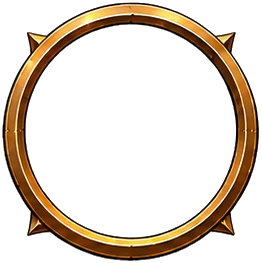
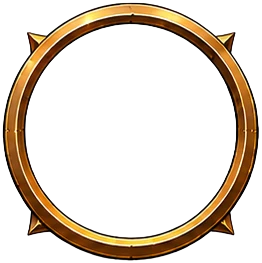
v3.711.0
Coque du téléphone : pièces détourées par Adobe, icônes du bas sans fond.

Claude-Session: https://claude.ai/code/session_01Re3aqe2KRUz6wn4UQVk1H2

diff --git a/game/css/02-layout.css b/game/css/02-layout.css
@@ -676,13 +676,14 @@ html:not(.wide-mode) #panel-container .kfp-scrollzone::after { content: ""; disp
 }
 
 /* v3.710.0 (atelier kit-coque-3, Seb 05/11) : barre du bas du téléphone avec le panneau et les icônes
-   du kit de Seb (images/UI/coque/), libellé sous l'icône, halo qui monte du bord sous l'onglet actif. */
+   du kit de Seb (images/UI/coque/), libellé sous l'icône, halo qui monte du bord sous l'onglet actif.
+   v3.711.0 : icônes détourées (fond transparent), plus de masque radial. */
 html:not(.wide-mode) #tab-bar { width: min(404px, 94%); aspect-ratio: 1014 / 229; background-image: url('../images/UI/coque/barre.webp'); }
 html:not(.wide-mode) #tab-bar-row { top: 17%; bottom: 14%; left: 4.5%; right: 4.5%; gap: 0; }
 html:not(.wide-mode) #tab-bar .tab-btn:not(.tab-wide) + .tab-btn:not(.tab-wide)::before { content: ""; position: absolute; left: 0; top: 12%; bottom: 12%; width: 1px; background: linear-gradient(transparent, rgba(226, 177, 74, 0.55), transparent); }
 html:not(.wide-mode) .tab-icon-frame { background: none; flex-direction: column; overflow: visible; }
 html:not(.wide-mode) .tab-btn.active .tab-icon-frame { background-image: none; }
-html:not(.wide-mode) #tab-bar .tab-icon-img { position: relative; z-index: 1; width: 34px; height: 28px; margin: 0 0 4px; object-fit: cover; filter: none; transform: none; -webkit-mask-image: radial-gradient(ellipse 60% 62% at 50% 50%, var(--c-black-950) 62%, transparent 100%); mask-image: radial-gradient(ellipse 60% 62% at 50% 50%, var(--c-black-950) 62%, transparent 100%); }
+html:not(.wide-mode) #tab-bar .tab-icon-img { position: relative; z-index: 1; width: 36px; height: 30px; margin: 0 0 3px; object-fit: contain; filter: drop-shadow(0 1px 2px rgba(0, 0, 0, 0.7)); transform: none; }
 html:not(.wide-mode) #tab-bar .tab-btn[data-tab="campement"] .tab-icon-img { content: url('../images/UI/coque/onglet-camp.webp'); }
 html:not(.wide-mode) #tab-bar .tab-btn[data-tab="quests"] .tab-icon-img { content: url('../images/UI/coque/onglet-quetes.webp'); }
 html:not(.wide-mode) #tab-bar .tab-btn[data-tab="map"] .tab-icon-img { content: url('../images/UI/coque/onglet-carte.webp'); }

diff --git a/game/js/lang/en.js b/game/js/lang/en.js
@@ -10,6 +10,7 @@
    Les textes des données sont traduits par _td() à l'affichage (registre : lang/data-fields.js). */
 I18n.register("en", {
   // index.html
+  "Bandeau du haut et barre du bas plus nets : les pièces de Seb sont détourées proprement (plus de liseré clair) et les icônes du bas n'ont plus de fond.": "Sharper top banner and bottom bar: Seb's pieces are now cleanly cut out (no more light fringe) and the bottom icons no longer have a background.",
   "Nouveau bandeau du haut et nouvelle barre du bas, sur les dessins de Seb. Le « + » à côté de l'or ouvre « Ton or peut servir » et pulse quand une dépense t'attend (il remplace la bulle dorée).": "New top banner and bottom bar, from Seb's artwork. The “+” next to your gold opens “Your gold can be put to use” and pulses when a purchase is waiting (it replaces the golden bubble).",
   "Rôdeur : Tir perforant traverse désormais sa cible, un second ennemi debout reçoit le même coup. Tutoriel de l'Amélioration : Précision et Volonté ont leur propre icône.": "Ranger: Piercing Shot now passes through its target, a second standing enemy takes the same hit. Upgrade tutorial: Accuracy and Will have their own icons.",
   "Outil d'administration plus fidèle : une étape d'Histoire forcée pose aussi l'équipement, les secteurs et les compteurs qu'elle demande.": "More faithful admin tool: a forced Story step now also sets the gear, sectors and counters it requires.",

diff --git a/game/js/ui/news-view.js b/game/js/ui/news-view.js
@@ -10,6 +10,7 @@
 /* [version, icône, texte] — la plus récente en premier. Textes littéraux : audit i18n. */
 function newsEntries() {
   return [
+    ["3.711.0", "menu_icons/menu_menu", _t("Bandeau du haut et barre du bas plus nets : les pièces de Seb sont détourées proprement (plus de liseré clair) et les icônes du bas n'ont plus de fond.")],
     ["3.710.0", "menu_icons/menu_menu", _t("Nouveau bandeau du haut et nouvelle barre du bas, sur les dessins de Seb. Le « + » à côté de l'or ouvre « Ton or peut servir » et pulse quand une dépense t'attend (il remplace la bulle dorée).")],
     ["3.709.0", "special_attacks/attack4", _t("Rôdeur : Tir perforant traverse désormais sa cible, un second ennemi debout reçoit le même coup. Tutoriel de l'Amélioration : Précision et Volonté ont leur propre icône.")],
     ["3.708.0", "system/wrench_settings", _t("Outil d'administration plus fidèle : une étape d'Histoire forcée pose aussi l'équipement, les secteurs et les compteurs qu'elle demande.")],

diff --git a/game/sw.js b/game/sw.js
@@ -45,7 +45,7 @@ les onglets ouverts via postMessage (voir la fin de l'event
 petite bannière "Nouvelle version disponible — Recharger".
 ============================================================ */
 
-var CACHE_VERSION = "3.710.0"; // <- à incrémenter à CHAQUE livraison
+var CACHE_VERSION = "3.711.0"; // <- à incrémenter à CHAQUE livraison
 var CACHE_NAME = "quest-idle-" + CACHE_VERSION;
 var IMAGE_CACHE = "aethervale-images"; // v3.457.4 : hors du préfixe quest-idle- ; v3.547.0 : images disparues purgées (purgeMissingImages)
 var imagesRevalidated = {};             // URL déjà revérifiées depuis le démarrage de ce service worker

diff --git a/game/js/core/constants.js b/game/js/core/constants.js
@@ -5,7 +5,7 @@
    dur dans title-screen-view.js et figé à v3.151.0 depuis 81 livraisons.
    DOIT rester égal au CACHE_VERSION de sw.js — le harnais le vérifie et
    échoue si les deux divergent. */
-var GAME_VERSION = "3.710.0";
+var GAME_VERSION = "3.711.0";
 window.GAME_VERSION = GAME_VERSION;
 
 /* v3.358.0 (D7, décision Seb 26/09/2026) : l'essence et le solde d'Aether disparaissent.

diff --git a/docs/changelog/CHANGELOG_v3.711.0.md b/docs/changelog/CHANGELOG_v3.711.0.md
@@ -1,0 +1,19 @@
+# v3.711.0 — Coque du téléphone : pièces détourées par Adobe
+
+Suite de v3.710.0, demande de Seb (05/11, essai sur deux pièces validé). Aucun état sauvegardé nouveau, aucun fichier ajouté (mêmes 16 noms dans `images/UI/coque/`).
+
+## Livré
+
+- **Détourage Adobe (Photoshop, « retirer l'arrière-plan »)** sur les découpes d'origine des planches de Seb (damier compris), à la place du retrait du damier par couleur : bords nets, plus de liseré clair ni de points roses (cœur, anneau). 14 pièces remplacées : plaque, anneau, ecusson, capsule-or, plus, jauge, jauge-pv, jauge-xp, barre, onglet-camp, onglet-quetes, onglet-carte, onglet-village, onglet-heros.
+  - Contrôle au pixel contre les pièces précédentes (alpha > 128) : cadres identiques à 0,3–2,2 % près (bords seulement), intérieurs creux (anneau, jauge) bien gardés vides.
+  - **Gardée** : `lueur.webp` (le détourage retirait le halo doux et ne gardait que le trait).
+  - **Onglet Menu** : non reconnu par l'outil (« aucun sujet »), détouré ici par couleur (barres dorées sur ardoise : chaleur rouge − bleu et luminosité).
+- **Icônes de la barre du bas** : fond transparent, recadrées sur leur contenu ; le CSS quitte le masque radial et passe en `object-fit: contain` 36 × 30 px avec une ombre portée (`css/02-layout.css`).
+- Quoi de neuf : une ligne FR + EN.
+- Réseau de la session : environnement personnel « Aethervale » (at.adobe.com, acp-aep-cs-blobstore-prod-irl1-data.adobe.io, photoshop-api.adobe.io) pour envoyer les pièces à Adobe et récupérer les résultats.
+
+## Contrôles
+
+- `node --check` sur chaque JS modifié.
+- `round-harness.js` : 6 625 OK, 0 échec (deux passes) ; `boot-harness.js` 4/0 ; `hero-creation-harness.js` 44/0 ; `parcours-harness.js` 232/0.
+- Captures Chromium à 390 et 320 px : bandeau et barre nets, aucune régression de placement.
